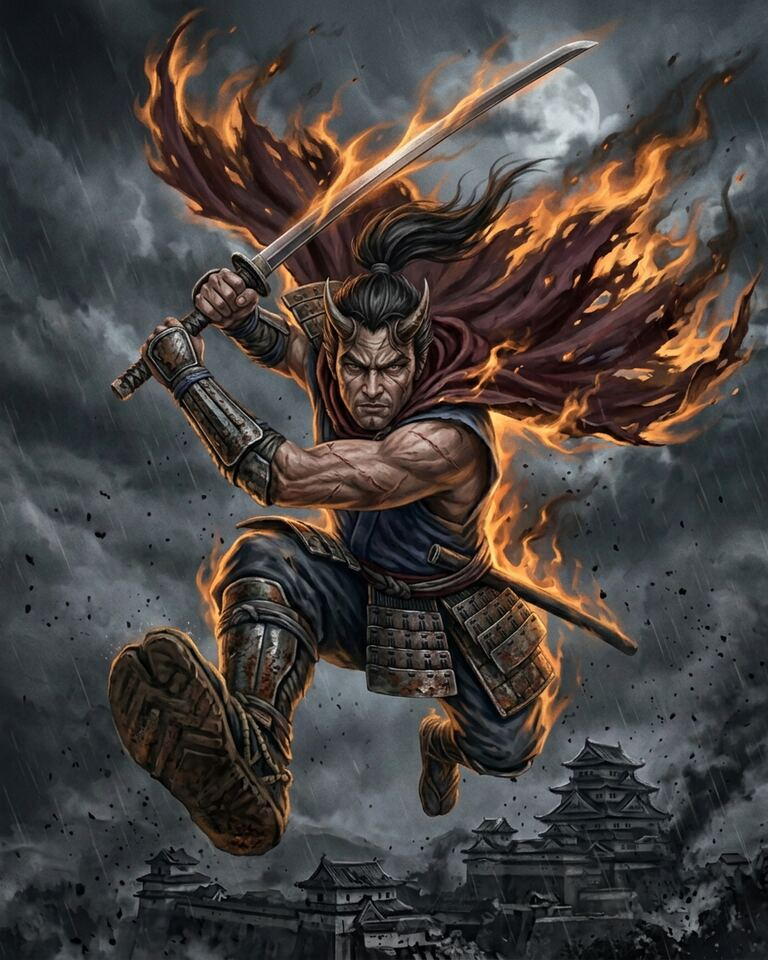
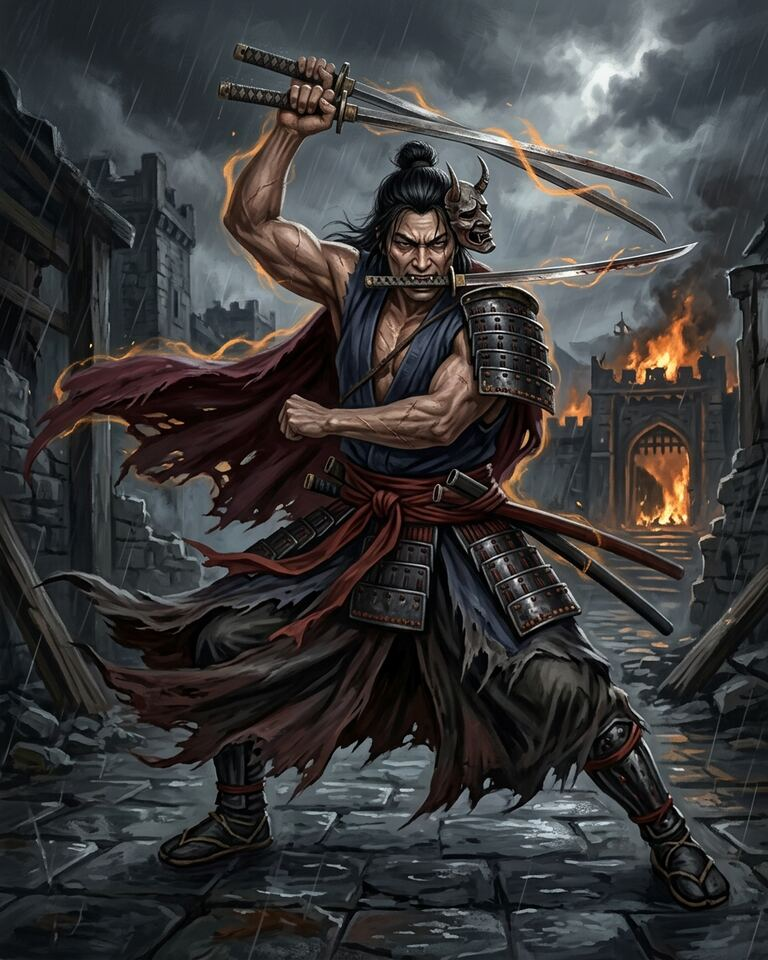
Recréer Tojiro dans une garde à trois lames

diff --git a/src/games/rpgSoleilRouge.js b/src/games/rpgSoleilRouge.js
@@ -163,7 +163,7 @@ export const RPG_SOLEIL_ROUGE_CREATURES = [
     esquive: true,
     contreAttaque: true,
     text: 'Embuscade — Vous pouvez jouer cette créature pendant le tour adverse seulement si l’adversaire contrôle un Djinn. Esquive — 15 % de chance d’esquiver une attaque, une Magie ou une Sorcellerie : leur effet sur lui ne porte pas du tout. Contre-attaque — Quand une créature adverse le frappe avec Attaque ciblée ou le cible avec une capacité, Tojiro lui inflige ses dégâts d’attaque ; quand c’est un sort — ciblé ou de zone — qui l’atteint, la riposte frappe le sorcier adverse. S’il esquive une attaque ou un sort, il contre-attaque quand même. Il riposte aussi si le coup le détruit. Les capacités ne s’esquivent pas.',
-    flavor: 'Les deux lames ne dansent pas : elles répondent, coup pour coup, sans jamais reculer.',
+    flavor: 'Ses trois lames ne dansent pas : elles répondent, coup pour coup, sans jamais reculer.',
   }),
   carte({
     id: 'daimyo-du-soleil-rouge', name: 'Daimyō du Soleil rouge',

diff --git a/src/games/rpgCardArt.js b/src/games/rpgCardArt.js
@@ -99,9 +99,9 @@ const CARD_ART_CACHE_VERSIONS = {
   'petit-orochi': 'petit-orochi-kaiga-couleurs-v1',
   'samourai-du-daimyo': 'samourai-du-daimyo-kaiga-couleurs-v1',
   'cavalier-des-deux-sabres': 'braise-souls-cendres-v4',
-  // Tojiro, samouraï à l'armure légère, fonce dans les airs vers le spectateur,
-  // katana levé et aura de flammes : révision dédiée au plein art.
-  'tojiro-le-pourfendeur': 'tojiro-souls-aura-flammes-v6',
+  // Tojiro reprend de zéro la pose à trois lames : bras levé, torse en
+  // torsion, jambes écartées, haori au vent. Révision dédiée au plein art.
+  'tojiro-le-pourfendeur': 'tojiro-souls-trois-lames-v7',
   'sabre-maudit': 'armurerie-sangles-v1',
   'montagne-du-soleil-rouge': 'montagne-kaiga-soleil-rouge-v1',
   // Soleil rouge uniquement : refonte kaiga / nihonga, personnages en action.

diff --git a/tests/rpg-soleil-rouge.test.js b/tests/rpg-soleil-rouge.test.js
@@ -401,8 +401,8 @@ test('les seize illustrations du set et leurs refontes ont une version de cache'
       'kenshi-de-la-forge': 'braise-souls-cendres-v4',
       'serment-de-la-forge': 'braise-souls-cendres-v4',
       // Le dernier lot Souls : les magies et la Tour de braise. Tojiro,
-      // katana levé, fonce vers la caméra au cœur d'une aura de flammes.
-      'tojiro-le-pourfendeur': 'tojiro-souls-aura-flammes-v6',
+      // nouvelle composition aux trois lames, en garde dans la cour en feu.
+      'tojiro-le-pourfendeur': 'tojiro-souls-trois-lames-v7',
       'feux-de-kitsune': 'braise-souls-cendres-v6',
       'braise-et-sable': 'arc-fleche-souls-lueur-v3',
       'sabre-maudit': 'armurerie-sangles-v1',

diff --git a/tests/rpg-illustrations-boutique.test.js b/tests/rpg-illustrations-boutique.test.js
@@ -192,7 +192,7 @@ test('l’ancien Tojiro s’achète puis remplace l’art en jeu, avec retour po
   assert.equal(ancienne.prix, 400);
   definirIllustrationsAffichees([]);
   const face = cardArt(id);
-  assert.match(face, /cards\/tojiro-le-pourfendeur\.jpg\?v=tojiro-souls-aura-flammes-v6$/);
+  assert.match(face, /cards\/tojiro-le-pourfendeur\.jpg\?v=tojiro-souls-trois-lames-v7$/);
 
   const refus = acheterIllustration(bourse(ancienne.prix), {
     carteId: id, prix: ancienne.prix, possedee: false,

diff --git a/src/games/RPG-CARD-ART.md b/src/games/RPG-CARD-ART.md
@@ -599,10 +599,10 @@ braise, Nuage de cendres, Vent rouge). La Frappe d'iaijutsu et les Feux de
 kitsune, refaits une seconde fois, portent `-v6`.
 
 Tojiro rejoint à présent l'huile sombre des autres samouraïs : ninja-samouraï
-au masque démoniaque, il fonce dans les airs vers le spectateur, katana levé
-pour frapper. Une aura de flammes entoure son corps et sa cape, sans Djinn
-visible. Son armure de samouraï est allégée, les bras sous les plaques usées
-(`tojiro-souls-aura-flammes-v6`). Son ancienne peinture nihonga au visage clair
+au masque démoniaque, il adopte une garde à trois lames, bras levé, torse en
+torsion et jambes largement écartées sous un haori emporté par le vent. Cette
+nouvelle composition a été peinte de zéro dans une cour de château en feu
+(`tojiro-souls-trois-lames-v7`). Son ancienne peinture nihonga au visage clair
 et aux talismans est archivée à l'identique sous
 `public/cards/alt/tojiro-le-pourfendeur.jpg` : une apparence achetable dans la
 fiche du Catalogue pour **400 ◈** (carte mythique), puis affichable sur Tojiro
@@ -1023,7 +1023,7 @@ une logique commune d'un set à l'autre.
 **Braise était déjà faite** : la dérogation Souls de dix-huit cartes de ce
 document (vingt-neuf au total avec les reprises) a couvert tout le set en 2025
 et 2026, sous les révisions `braise-souls-cendres-v2` à `-v6` ; Tojiro a
-également rejoint l'huile sombre depuis (`tojiro-souls-aura-flammes-v6`).
+également rejoint l'huile sombre depuis (`tojiro-souls-trois-lames-v7`).
 La **Montagne du Soleil rouge** est un terrain, hors du lot des cartes jouées.
 
 > **Ne pas se fier aux seuls noms de révision.** Un comptage rapide des marques
